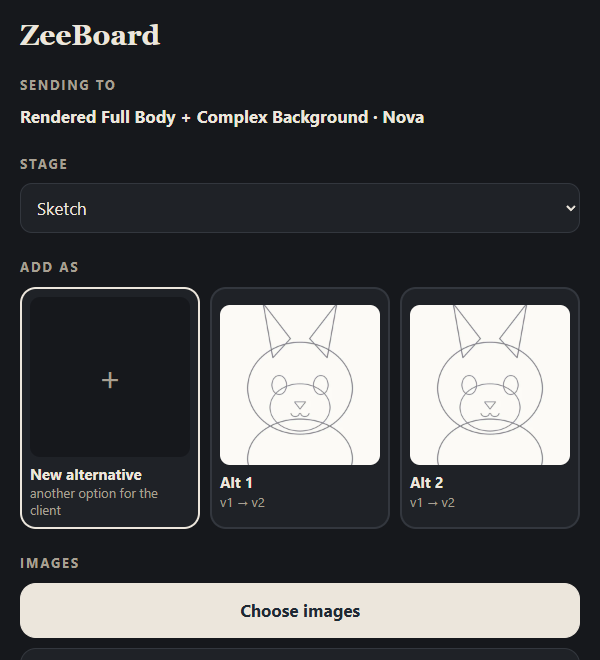
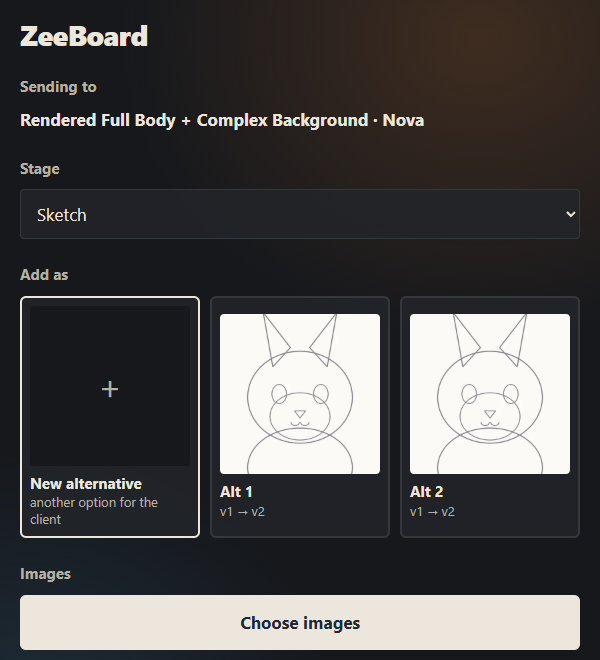
Página del iPad con el aspecto nuevo (esquinas rectas, cristal, fondo de color, etiquetas sin mayúsculas) y captura actualizada

diff --git a/src-tauri/src/ipad_page.html b/src-tauri/src/ipad_page.html
@@ -7,31 +7,32 @@
 <meta name="apple-mobile-web-app-title" content="ZeeBoard">
 <title>ZeeBoard</title>
 <style>
-  :root { color-scheme: light dark; --bg: #f6f3ee; --card: #fff; --ink: #1f2933; --muted: #7c7163; --line: #e6ded2; --primary: #1f2933; --on: #fff; --ok: #1a7f4b; --bad: #c0392b; }
-  @media (prefers-color-scheme: dark) { :root { --bg: #16181c; --card: #1f2227; --ink: #ece6dc; --muted: #a8a093; --line: #33373e; --primary: #ece6dc; --on: #1f2933; --ok: #4cc38a; --bad: #ff7a6b; } }
+  :root { color-scheme: light dark; --bg: #f6f3ee; --card: #fff; --ink: #1f2933; --muted: #5f5649; --line: #e6ded2; --primary: #1f2933; --on: #fff; --ok: #1d7a4a; --bad: #b83228; --glass: rgba(255,252,246,.82); --g1: #e4b98a55; --g2: #9fc3d455; }
+  @media (prefers-color-scheme: dark) { :root { --bg: #16181c; --card: #1f2227; --ink: #ece6dc; --muted: #b8b0a3; --line: #33373e; --primary: #ece6dc; --on: #1f2933; --ok: #5ec48d; --bad: #ef7b73; --glass: rgba(34,37,42,.82); --g1: #5a3a2299; --g2: #223a4a99; } }
   * { box-sizing: border-box; }
-  body { margin: 0; background: var(--bg); color: var(--ink); font: 17px/1.5 -apple-system, "Segoe UI", system-ui, sans-serif; padding: env(safe-area-inset-top) 16px calc(24px + env(safe-area-inset-bottom)); }
+  body { margin: 0; min-height: 100vh; background: radial-gradient(ellipse 60% 40% at 80% 5%, var(--g1), transparent), radial-gradient(ellipse 50% 35% at 5% 95%, var(--g2), transparent), var(--bg); color: var(--ink); font: 17px/1.5 -apple-system, "Segoe UI", system-ui, sans-serif; padding: env(safe-area-inset-top) 16px calc(24px + env(safe-area-inset-bottom)); }
   main { max-width: 560px; margin: 0 auto; padding-top: 20px; }
-  h1 { font: 800 28px/1.1 Georgia, serif; margin: 0 0 4px; }
-  h2 { font-size: 13px; letter-spacing: .14em; text-transform: uppercase; color: var(--muted); margin: 24px 0 10px; }
+  h1 { font-size: 28px; font-weight: 800; line-height: 1.1; letter-spacing: -.02em; margin: 0 0 4px; }
+  h2 { font-size: 15px; font-weight: 700; color: var(--muted); margin: 24px 0 10px; }
   p { margin: 0; color: var(--muted); }
-  .item, .btn { display: block; width: 100%; text-align: left; border: 1px solid var(--line); background: var(--card); color: var(--ink); border-radius: 16px; padding: 14px 16px; margin-bottom: 10px; font: inherit; }
+  .item, .btn { display: block; width: 100%; text-align: left; border: 1px solid var(--line); background: var(--glass); color: var(--ink); border-radius: 6px; padding: 14px 16px; margin-bottom: 10px; font: inherit; }
   .item b { display: block; }
   .item span { color: var(--muted); font-size: 15px; }
   .btn { text-align: center; font-weight: 700; }
   .btn.primary { background: var(--primary); color: var(--on); border-color: var(--primary); }
-  select { width: 100%; padding: 12px; border-radius: 12px; border: 1px solid var(--line); background: var(--card); color: var(--ink); font: inherit; }
+  select { width: 100%; padding: 12px; border-radius: 4px; border: 1px solid var(--line); background: var(--glass); color: var(--ink); font: inherit; }
   #chosen { font-weight: 700; color: var(--ink); }
   #targets { display: grid; grid-template-columns: repeat(auto-fill, minmax(140px, 1fr)); gap: 10px; }
-  .target { border: 2px solid var(--line); background: var(--card); color: var(--ink); border-radius: 16px; padding: 8px; font: inherit; text-align: left; }
+  .target { border: 2px solid var(--line); background: var(--glass); color: var(--ink); border-radius: 6px; padding: 8px; font: inherit; text-align: left; }
   .target.on { border-color: var(--primary); }
-  .target .thumb { width: 100%; aspect-ratio: 1; border-radius: 10px; background: var(--bg); object-fit: cover; display: flex; align-items: center; justify-content: center; font-size: 34px; color: var(--muted); }
+  .target .thumb { width: 100%; aspect-ratio: 1; border-radius: 4px; background: var(--bg); object-fit: cover; display: flex; align-items: center; justify-content: center; font-size: 34px; color: var(--muted); }
   .target b { display: block; margin-top: 6px; font-size: 15px; }
   .target span { display: block; color: var(--muted); font-size: 13px; line-height: 1.3; }
   #queue { list-style: none; padding: 0; margin: 14px 0 0; }
   #queue li { padding: 8px 0; border-bottom: 1px solid var(--line); word-break: break-all; font-size: 15px; }
   #queue li.ok { color: var(--ok); } #queue li.bad { color: var(--bad); }
   input[type=file] { display: none; }
+  :focus-visible { outline: 2px solid var(--ink); outline-offset: -2px; }
   [hidden] { display: none !important; }
 </style>
 </head>

diff --git a/ROADMAP.md b/ROADMAP.md
@@ -62,7 +62,7 @@ Dividir cada pantalla en componentes y aplicar el nuevo diseño.
 - [x] Accesibilidad básica: foco visible, diálogos con Esc, movimiento y transparencia reducidos, contraste
 - [x] Capturas, README y página del proyecto rehechos con el nuevo aspecto (datos de ejemplo)
 - [ ] Vídeo de presentación con el nuevo aspecto
-- [ ] Página del iPad con el mismo aspecto que la app
+- [x] Página del iPad con el mismo aspecto que la app
 - [ ] Esc en los formularios y diálogos que faltan, y foco atrapado dentro de los diálogos
 
 ---
